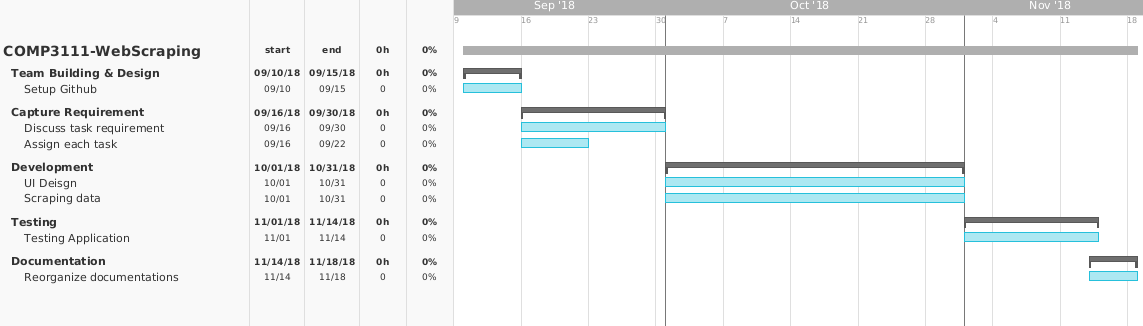
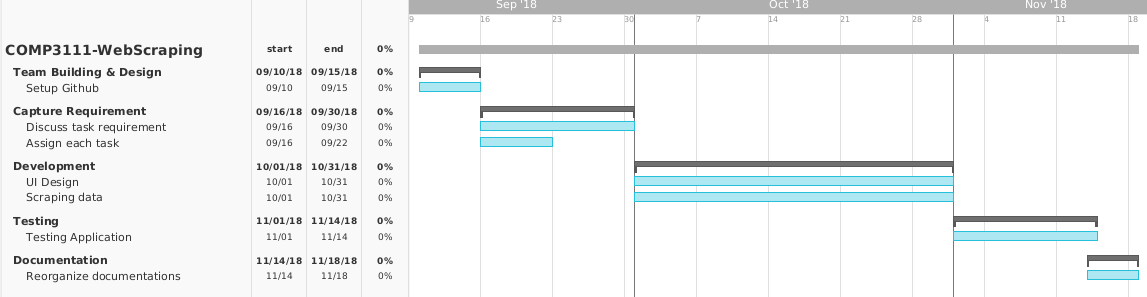
Fix the gantt-chart typo

diff --git a/src/main/java/comp3111/webscraper/WebScraper.java b/src/main/java/comp3111/webscraper/WebScraper.java
@@ -291,18 +291,18 @@ public class WebScraper {
 
 	public static void main(String[] args) {
 		WebScraper webScraper = new WebScraper();
-		List<Item> results = webScraper.scrapeDCFever("iphone 1");
+		List<Item> results = webScraper.scrapeDCFever("nvme");
 //		List<Item> results = webScraper.scrape("iphone");
 //		List<Item> results = webScraper.scrapeCarousell("galaxy 3");
-//		if(results==null){
-//			System.out.println("NULL RESULT");
-//			return;
-//		}
-//
-//		System.out.println();
-//		System.out.println("Result size:" +results.size());
-//		for(Item i:results)
-//			i.printItem();
+		if(results==null){
+			System.out.println("NULL RESULT");
+			return;
+		}
+
+		System.out.println();
+		System.out.println("Result size:" +results.size());
+		for(Item i:results)
+			i.printItem();
 
 	}
 }
